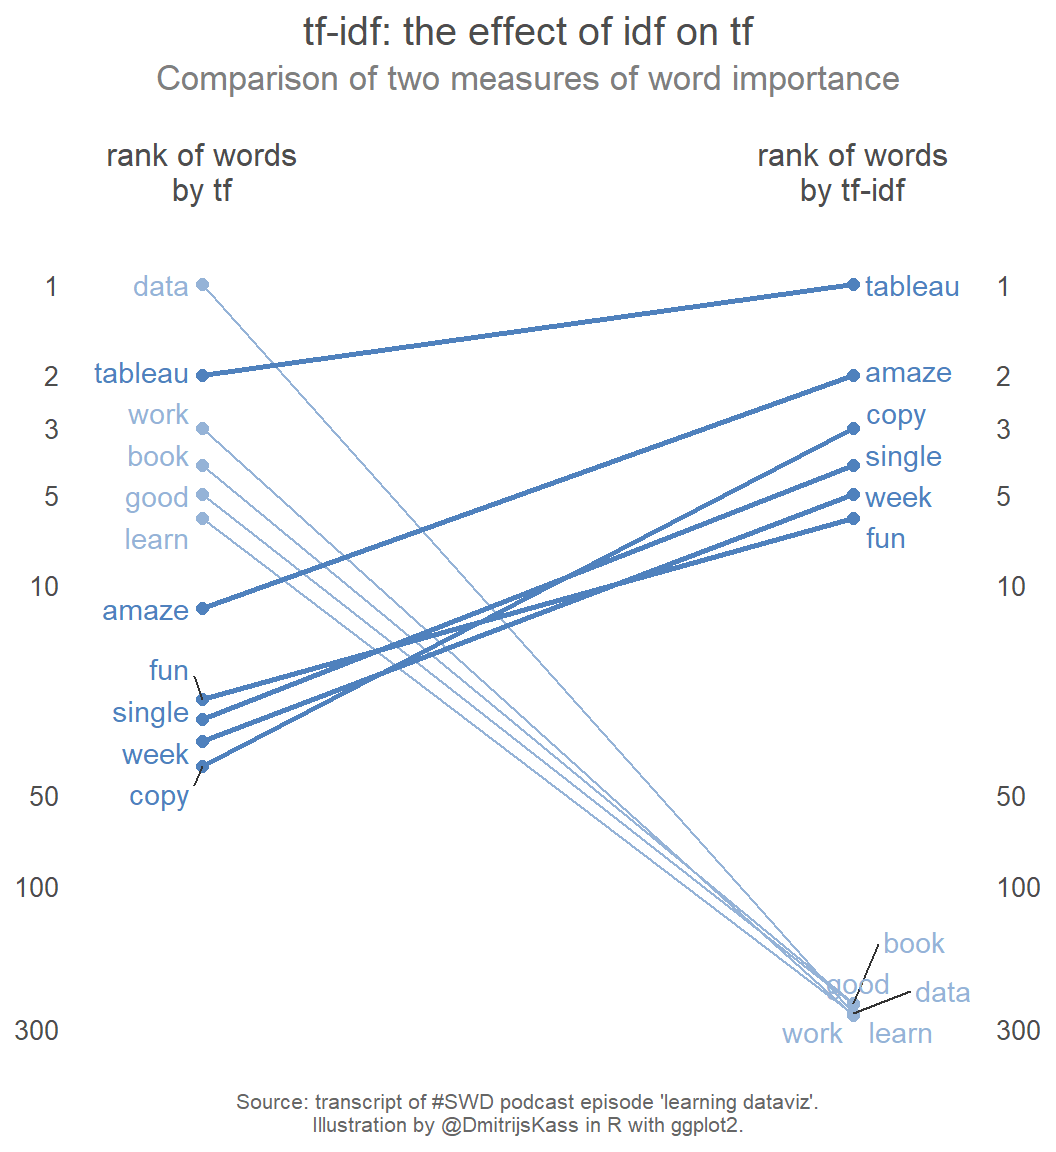
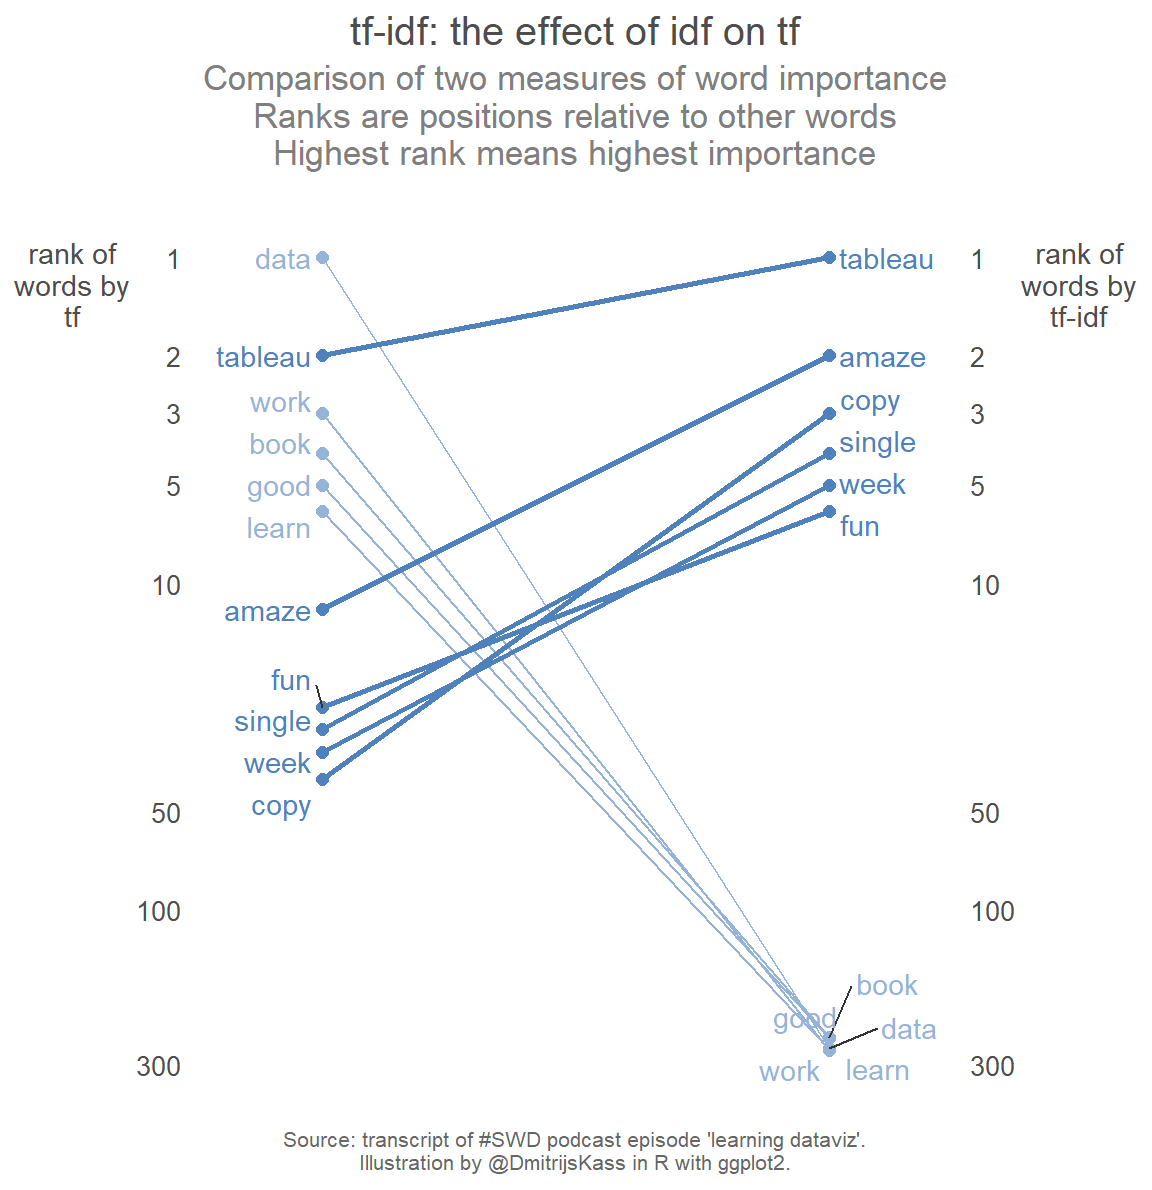
Changes in labels of the plot.

diff --git a/content/post/2019-05-08-swdchallenge-artisanal-data.html b/content/post/2019-05-08-swdchallenge-artisanal-data.html
@@ -18,7 +18,7 @@ output:
 <ul>
 <li><a href="#text-cleaning">text cleaning</a></li>
 <li><a href="#about-tf-idf">about tf-idf</a></li>
-<li><a href="#tfidf">tf-idf: the effect of idf on tf</a></li>
+<li><a href="#tfidf">tf-idf: the effect of idf on tf visualised</a></li>
 </ul>
 </div>
 
@@ -63,7 +63,7 @@ example</code></pre>
 </div>
 <div id="about-tf-idf" class="section level1">
 <h1>about tf-idf</h1>
-<p>If you are already familiar with tf (term frequency), idf (inverse document frequency) and tf-idf (term frequency-inverse document frequency) then you may skip this section and go directly to the <a href="#tfidf">visual comparison of two measures of word importance</a>.</p>
+<p>If you are already familiar with tf (term frequency), idf (inverse document frequency) and tf-idf (term frequency-inverse document frequency) then you may skip this section and go directly to the <a href="#tfidf">visual comparison of these two measures of word importance</a>.</p>
 <p>Few definitions. Here,</p>
 <ul>
 <li><em>term</em> is a single word (in general, a term may be a combination of two words, a sentence, etc.)</li>
@@ -71,31 +71,31 @@ example</code></pre>
 <li><em>collection of documents</em> is a collection of 12 interviews in the episode.</li>
 </ul>
 <p><strong>Term frequency (tf)</strong> measures how frequently a term occurs in a document. Since every document is different in length, it is often divided by the document length<a href="#fn2" class="footnote-ref" id="fnref2"><sup>2</sup></a>:</p>
-<p><span class="math display">\[tf(t) = \frac{\text{Number of times term t appears in a document}}{\text{Total number of terms in the document}}.\]</span></p>
+<p><span class="math display">\[\text{tf}(t) = \frac{\text{Number of times term t appears in a document}}{\text{Total number of terms in the document}}.\]</span></p>
 <p>For example, if the word “learn” is used 8 times and the interview contains 540 words then</p>
-<p><span class="math display">\[tf(learn)=8/540\approx0.015.\]</span></p>
-<p>When used to measure word importance, the shortcoming of tf is that it is calculated using a single document in isolation from other documents in the collection. Notice that a term’s tf may be different for each document within a collection.</p>
+<p><span class="math display">\[\text{tf}(learn)=8/540\approx0.015.\]</span></p>
+<p>When used to measure word importance, the shortcoming of tf is that it is calculated using a single document in isolation from other documents in the collection. Notice that a word’s tf may be different for each document within a collection.</p>
 <p><strong>Inverse document frequency (idf)</strong> measures how important a term is in the context of other documents. Idf is computed as the logarithm of the number of the documents in the collection divided by the number of documents where the specific term appears:</p>
-<p><span class="math display">\[idf(t) = log_e\left(\frac{\text{Total number of documents}}{\text{Number of documents with term t in it}}\right).\]</span></p>
+<p><span class="math display">\[\text{idf}(t) = log_e\left(\frac{\text{Total number of documents}}{\text{Number of documents with term t in it}}\right).\]</span></p>
 <p>Here is the relationship between a number of documents with term <span class="math inline">\(t\)</span> in it and the term’s idf. I assume there are 12 documents in the collection:</p>
 <p><img src="/post/2019-05-08-swdchallenge-artisanal-data_files/figure-html/unnamed-chunk-6-1.png" width="480" style="display: block; margin: auto;" /></p>
-<p>The “learning dataviz” episode of #SWDpodcast is, well, about learning data visualization. Naturally, the word “learn” appears at least once in each of 12 interviews. Does it mean that this word is important? In describing the whole episode - yes. In describing any particular interview from this episode - no, at least in the understanding of idf. Because all interviewees use the word “learn”.</p>
+<p>The “learning dataviz” episode of #SWDpodcast is, well, about learning data visualization. Naturally, the word “learn” appears at least once in each of 12 interviews. Does it mean that this word is important? In describing the whole episode - yes. In describing any particular interview from this episode - no, at least in the understanding of idf. Because <em>all</em> interviewees use the word “learn”.</p>
 <p>The word “learn” appears in all 12 interviews, so its idf is zero:</p>
-<p><span class="math display">\[idf(learn)=log_e(12/12)=log_e(1)=0\]</span></p>
+<p><span class="math display">\[\text{idf}(learn)=log_e(12/12)=log_e(1)=0\]</span></p>
 <p>It means that the word “learn” is completely unimportant to describe any specific interview in the context of other 11 interviews. Other words with zero importance here are <em>data, year, make, thing, work</em>.</p>
-<p>Notice that idf for each term is constant within a collection of documents.</p>
+<p>Notice that idf of each term is the same for all documents in a collection.</p>
 <p><strong>Term frequency-inverse document frequency (tf-idf)</strong> is a multiplication of tf and idf:</p>
-<p><span class="math display">\[tfidf(t) = tf(t) \times idf(t).\]</span></p>
-<p>It does not matter how high <span class="math inline">\(tf(learn)\)</span> is, if <span class="math inline">\(idf(learn)=0\)</span>, the <span class="math inline">\(tfidf(learn)\)</span> will also be zero. On the contrary, if a word is mentioned only in one interview from 12 then its tf get multiplied by 2.48. This is what happened to the word “copy”. Its importance rank by tf and tf-idf is #40 and #3, respectively.</p>
+<p><span class="math display">\[\text{tfidf}(t) = \text{tf}(t) \times \text{idf}(t).\]</span></p>
+<p>It does not matter how high <span class="math inline">\(\text{tf}(learn)\)</span> is, if <span class="math inline">\(\text{idf}(learn)=0\)</span>, the <span class="math inline">\(\text{tfidf}(learn)\)</span> will also be zero. On the contrary, if a word is mentioned only in one interview from 12 then its tf gets multiplied by 2.48. This is what happened to the word “copy”. Its importance rank increased from #40, measured by tf, to #3, measured by tf-idf.</p>
 <p>Tf-idf gives highest weight to words that are “common locally and rare globally”<a href="#fn3" class="footnote-ref" id="fnref3"><sup>3</sup></a>. “Common locally” refers to the tf component, while “rare globally” refers to the idf component.</p>
 </div>
 <div id="tfidf" class="section level1">
-<h1>tf-idf: the effect of idf on tf</h1>
-<p>The plot below depicts changes in ranks for the most important words in Andy Cotgreave’s interview in the “learning dataviz” episode of #SWDpodast measured by tf (on the left) and tf-idf (on the right). Tf gives the highest weight to words that are simply used most frequently. It is a local measure in a sense that it ignores other interviews in the same podcast episode.</p>
-<p>Multiplication of tf by idf, which gives tf-idf, diminished the importance of words that are common across all interviews, such as “data” and “learn”. At the same time is amplifies the importance of rare words, such as “copy” and “fun”.</p>
-<p>A word “copy” is used only in Andy’s interview and he uses it three times. It is used in the context of recommending Austin Kleon’s book “Steal Like an Artist”. A word “fun” is used in two other interviews, but Andy uses is most frequency. He recommends listeners to <em>“get out of your comfort zone and have fun”</em>. And continues with saying <em>“Have fun. My gosh, you are allowed to have fun!”</em>. Let’s do it!</p>
-<p><img src="/post/2019-05-08-swdchallenge-artisanal-data_files/figure-html/unnamed-chunk-7-1.png" width="528" style="display: block; margin: auto;" /></p>
-<p>Below is the data used for plotting. There are 12 interviews. Andy Cotgreave’s interview contains 540 words, 271 of them unique.</p>
+<h1>tf-idf: the effect of idf on tf visualised</h1>
+<p>The plot below depicts changes in <em>ranks</em> (position relative to other words) for the most important words in Andy Cotgreave’s interview in the “learning dataviz” episode of #SWDpodast measured by tf (on the left) and tf-idf (on the right). Tf gives the highest weight to words that are simply used most frequently. It is a local measure in a sense that it ignores other interviews in the same podcast episode.</p>
+<p>Multiplication of tf by idf, which gives tf-idf, diminished the importance of words that are common across all interviews, such as “data” and “learn”. At the same time it amplifies the importance of rare words, such as “copy” and “fun”.</p>
+<p>A word “copy” is used only in Andy’s interview. It is used in the context of recommending Austin Kleon’s book “Steal Like an Artist”. A word “fun” is used only in two more interviews. Andy recommends listeners to <em>“get out of your comfort zone and have fun”</em>. And continues with saying <em>“Have fun. My gosh, you are allowed to have fun!”</em>. Let’s do it!</p>
+<p><img src="/post/2019-05-08-swdchallenge-artisanal-data_files/figure-html/unnamed-chunk-7-1.png" width="576" style="display: block; margin: auto;" /></p>
+<p>Below is the data used for plotting. There are 12 interviews. Andy Cotgreave’s interview contains 540 words, 271 of them unique. Importance ranks are positions relative to other words.</p>
 <table>
 <thead>
 <tr>
@@ -112,7 +112,7 @@ total words
 tf
 </th>
 <th style="text-align:right;">
-documents
+documents with word
 </th>
 <th style="text-align:right;">
 idf
@@ -247,35 +247,6 @@ book
 </tr>
 <tr>
 <td style="text-align:left;">
-good
-</td>
-<td style="text-align:right;">
-8
-</td>
-<td style="text-align:right;">
-540
-</td>
-<td style="text-align:right;">
-0.015
-</td>
-<td style="text-align:right;">
-11
-</td>
-<td style="text-align:right;">
-0.087
-</td>
-<td style="text-align:right;">
-0.001
-</td>
-<td style="text-align:right;">
-5
-</td>
-<td style="text-align:right;">
-248
-</td>
-</tr>
-<tr>
-<td style="text-align:left;">
 learn
 </td>
 <td style="text-align:right;">
@@ -301,6 +272,35 @@ learn
 </td>
 <td style="text-align:right;">
 268
+</td>
+</tr>
+<tr>
+<td style="text-align:left;">
+good
+</td>
+<td style="text-align:right;">
+8
+</td>
+<td style="text-align:right;">
+540
+</td>
+<td style="text-align:right;">
+0.015
+</td>
+<td style="text-align:right;">
+11
+</td>
+<td style="text-align:right;">
+0.087
+</td>
+<td style="text-align:right;">
+0.001
+</td>
+<td style="text-align:right;">
+5
+</td>
+<td style="text-align:right;">
+248
 </td>
 </tr>
 <tr>
@@ -363,35 +363,6 @@ fun
 </tr>
 <tr>
 <td style="text-align:left;">
-single
-</td>
-<td style="text-align:right;">
-4
-</td>
-<td style="text-align:right;">
-540
-</td>
-<td style="text-align:right;">
-0.007
-</td>
-<td style="text-align:right;">
-2
-</td>
-<td style="text-align:right;">
-1.792
-</td>
-<td style="text-align:right;">
-0.013
-</td>
-<td style="text-align:right;">
-28
-</td>
-<td style="text-align:right;">
-4
-</td>
-</tr>
-<tr>
-<td style="text-align:left;">
 week
 </td>
 <td style="text-align:right;">
@@ -417,6 +388,35 @@ week
 </td>
 <td style="text-align:right;">
 5
+</td>
+</tr>
+<tr>
+<td style="text-align:left;">
+single
+</td>
+<td style="text-align:right;">
+4
+</td>
+<td style="text-align:right;">
+540
+</td>
+<td style="text-align:right;">
+0.007
+</td>
+<td style="text-align:right;">
+2
+</td>
+<td style="text-align:right;">
+1.792
+</td>
+<td style="text-align:right;">
+0.013
+</td>
+<td style="text-align:right;">
+28
+</td>
+<td style="text-align:right;">
+4
 </td>
 </tr>
 <tr>
